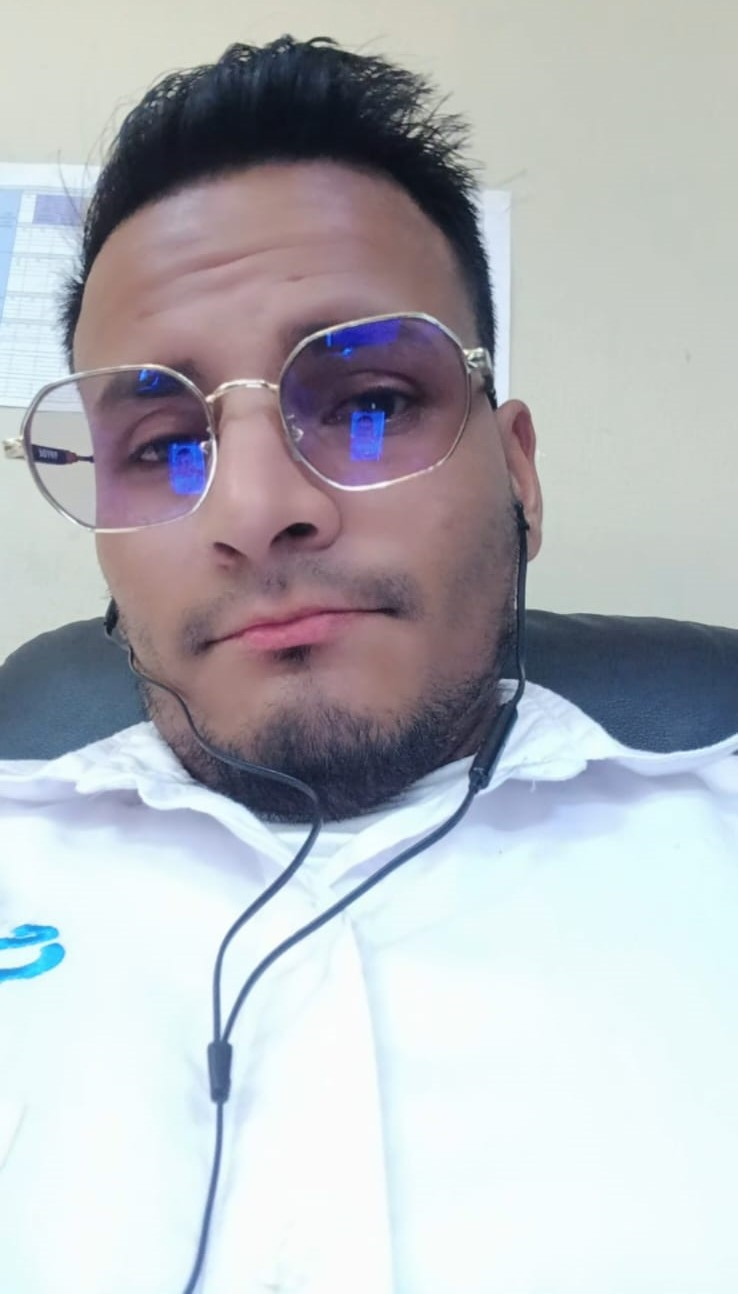
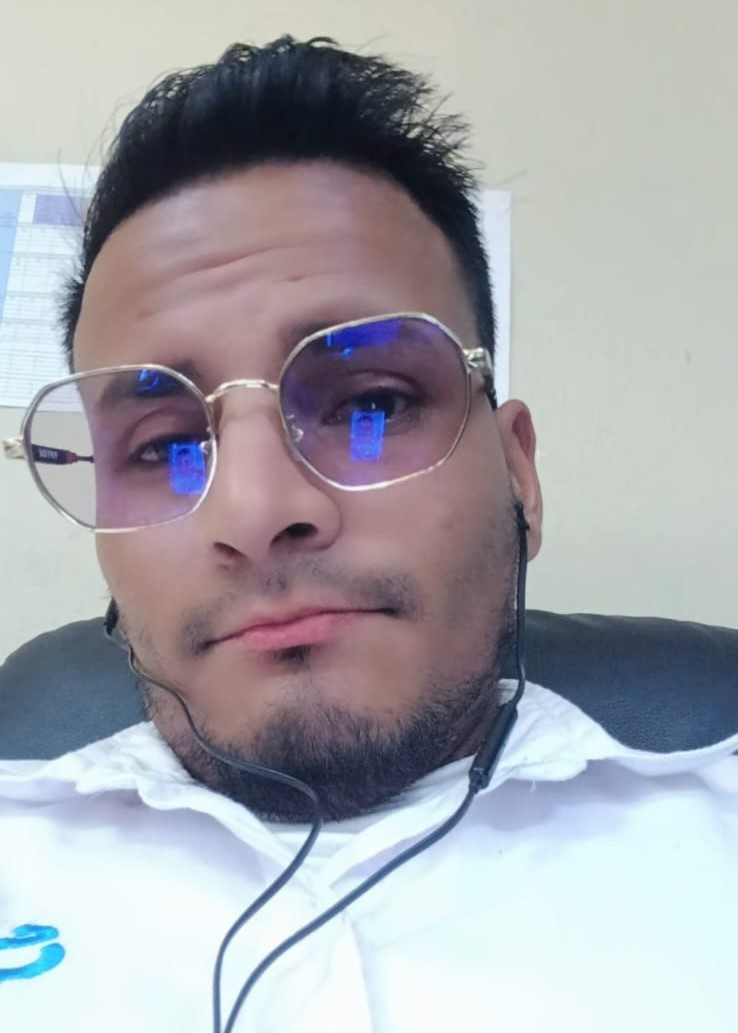
Nuevo

diff --git a/index.html b/index.html
@@ -53,15 +53,5 @@
             <li>Herramientas ofimáticas y desarrollo cognitivo (Ministerio del Trabajo)</li>
         </ul>
     </section>
-
-    <section>
-        <h2>Habilidades</h2>
-        <ul>
-            <li>Mantenimiento de redes y equipos tecnológicos.</li>
-            <li>Administración de procesos de contratación pública.</li>
-            <li>Implementación de redes inalámbricas.</li>
-        </ul>
-    </section>
-
 </body>
 </html>